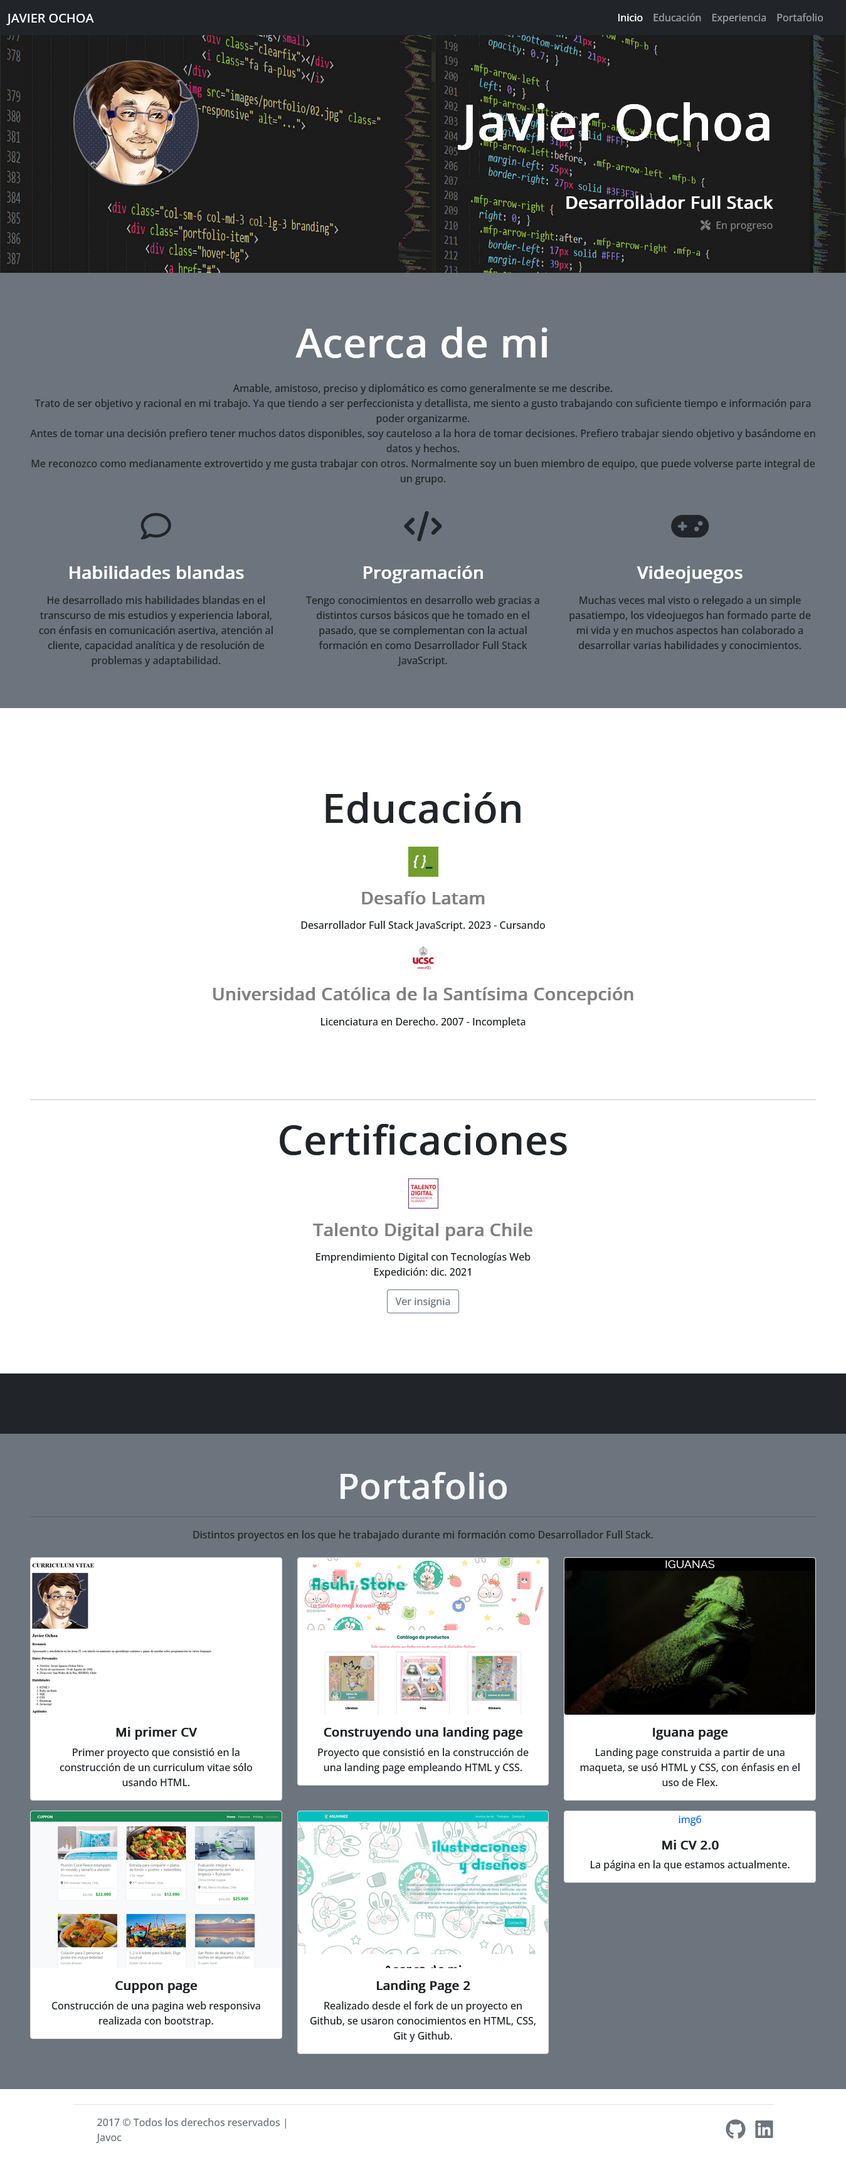
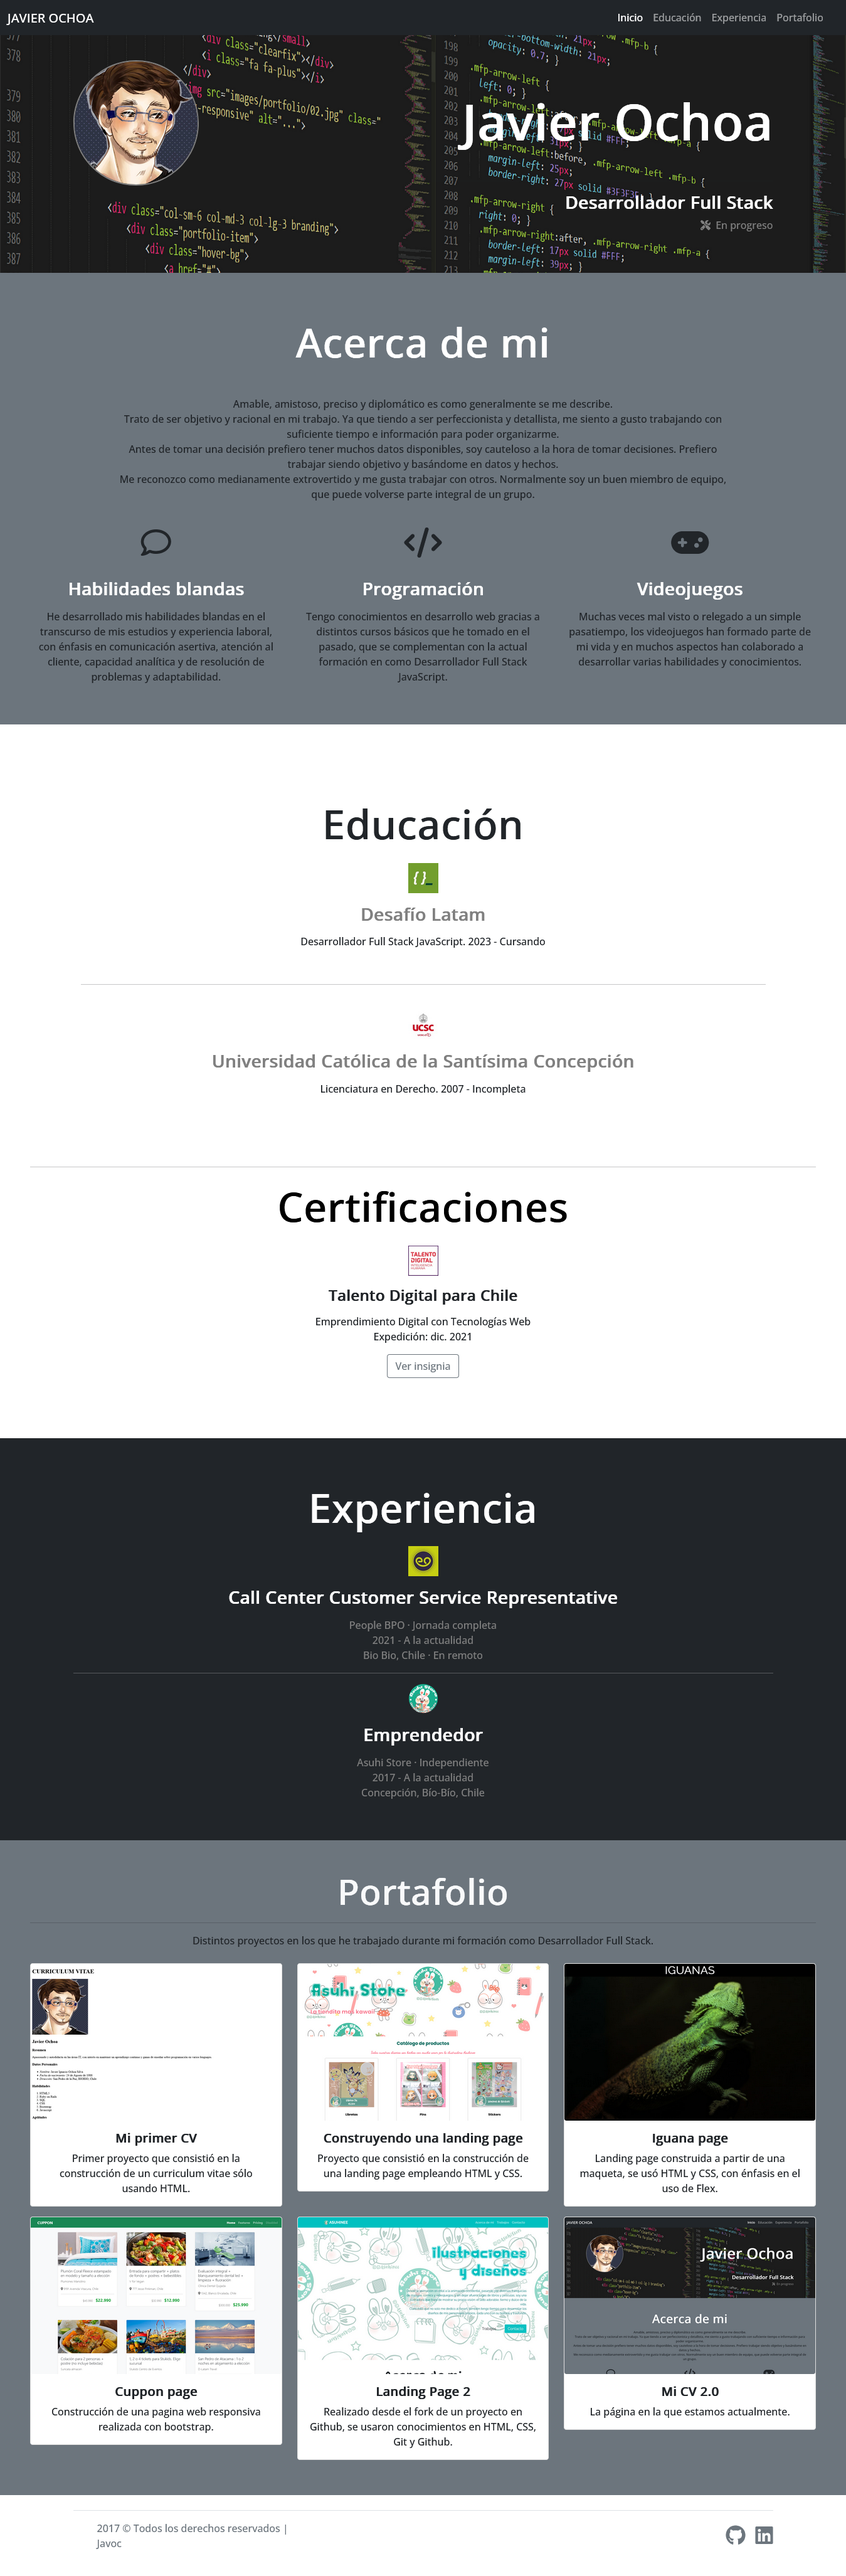
cambiada img 6, modificada seccion about-me

diff --git a/index.html b/index.html
@@ -97,22 +97,24 @@
     <!-- Acerca de mi -->
     <section id="About-me" class="my-5 mt-0 p-5 bg-secondary text-center">
       <h2 class="display-3 fw-bold my-4">Acerca de mi</h2>
-      <p class="my-4">
-        Amable, amistoso, preciso y diplomático es como generalmente se me
-        describe.
-        <br />
-        Trato de ser objetivo y racional en mi trabajo. Ya que tiendo a ser
-        perfeccionista y detallista, me siento a gusto trabajando con suficiente
-        tiempo e información para poder organizarme.
-        <br />
-        Antes de tomar una decisión prefiero tener muchos datos disponibles, soy
-        cauteloso a la hora de tomar decisiones. Prefiero trabajar siendo
-        objetivo y basándome en datos y hechos.
-        <br />
-        Me reconozco como medianamente extrovertido y me gusta trabajar con
-        otros. Normalmente soy un buen miembro de equipo, que puede volverse
-        parte integral de un grupo.
-      </p>
+      <div class="card">
+        <p class="my-4">
+          Amable, amistoso, preciso y diplomático es como generalmente se me
+          describe.
+          <br />
+          Trato de ser objetivo y racional en mi trabajo. Ya que tiendo a ser
+          perfeccionista y detallista, me siento a gusto trabajando con suficiente
+          tiempo e información para poder organizarme.
+          <br />
+          Antes de tomar una decisión prefiero tener muchos datos disponibles, soy
+          cauteloso a la hora de tomar decisiones. Prefiero trabajar siendo
+          objetivo y basándome en datos y hechos.
+          <br />
+          Me reconozco como medianamente extrovertido y me gusta trabajar con
+          otros. Normalmente soy un buen miembro de equipo, que puede volverse
+          parte integral de un grupo.
+        </p>
+      </div>
       <!-- Iconos con texto -->
       <div class="row">
         <div class="col-12 col-md-4">

diff --git a/assets/css/style.css b/assets/css/style.css
@@ -39,6 +39,14 @@ h3 {
 /* About-me section */
 #About-me h2 {
   color: white;
+  padding-bottom: 0;
+}
+
+#About-me .card {
+  margin: auto;
+  width: 80%;
+  background-color: transparent;
+  border-color: transparent;
 }
 
 /* Education section */
@@ -61,7 +69,7 @@ h3 {
 }
 
 /* Portfolio section */
-.card {
+#Portfolio .card {
   display: flex;
   flex-flow: wrap;
   justify-content: center;
